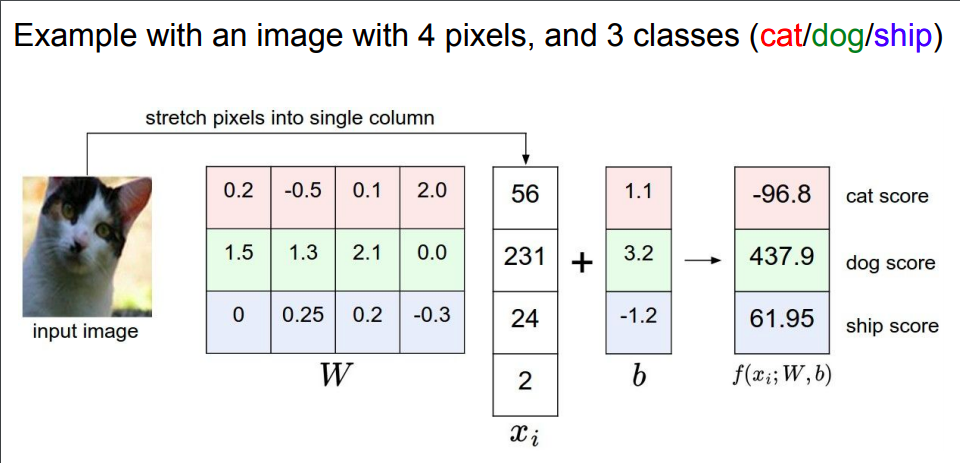
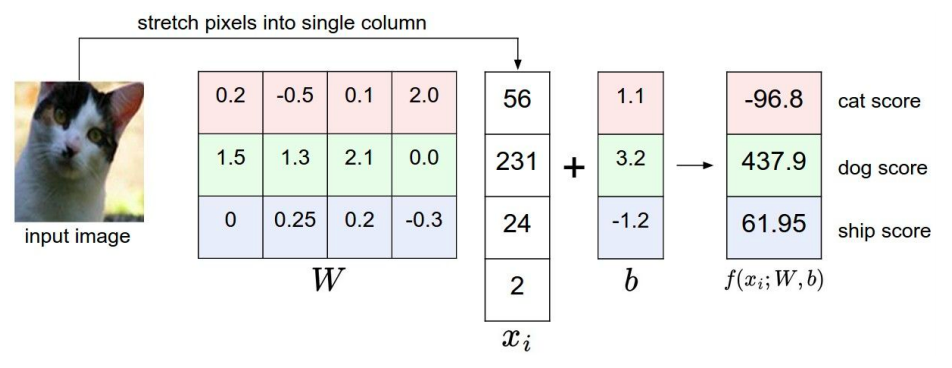
cropped and added content

Changed region(s): [[0.0, 0.1793, 0.9748, 0.9565], [0.0, 0.0, 1.0, 0.1196], [0.5179, 0.1495, 0.5788, 0.2092]]

diff --git a/lectures/lec_2.md b/lectures/lec_2.md
@@ -58,6 +58,8 @@ Cross-validation is expensive and hence, it is used prefarably for small dataset
 
 ## Linear Classification
 
+Example of an image with 4 pixels and 3 classes (cat/dog/ship)
+
 ![6](/lectures/img/lec_2/6.png)
 
 Each row of W and b is an independent classifier for corresponding class.
